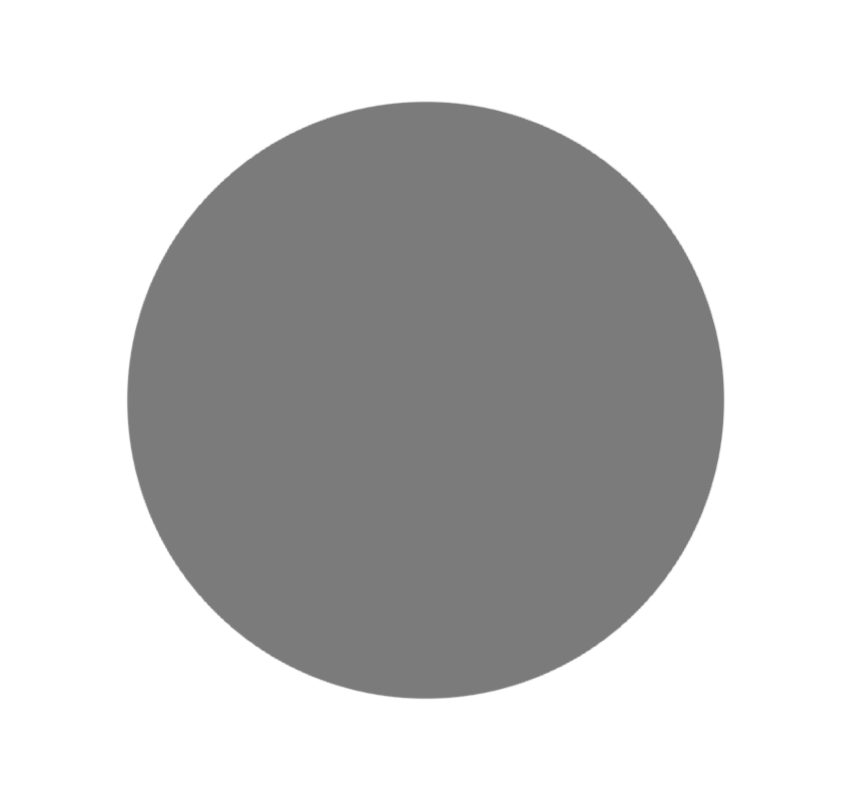
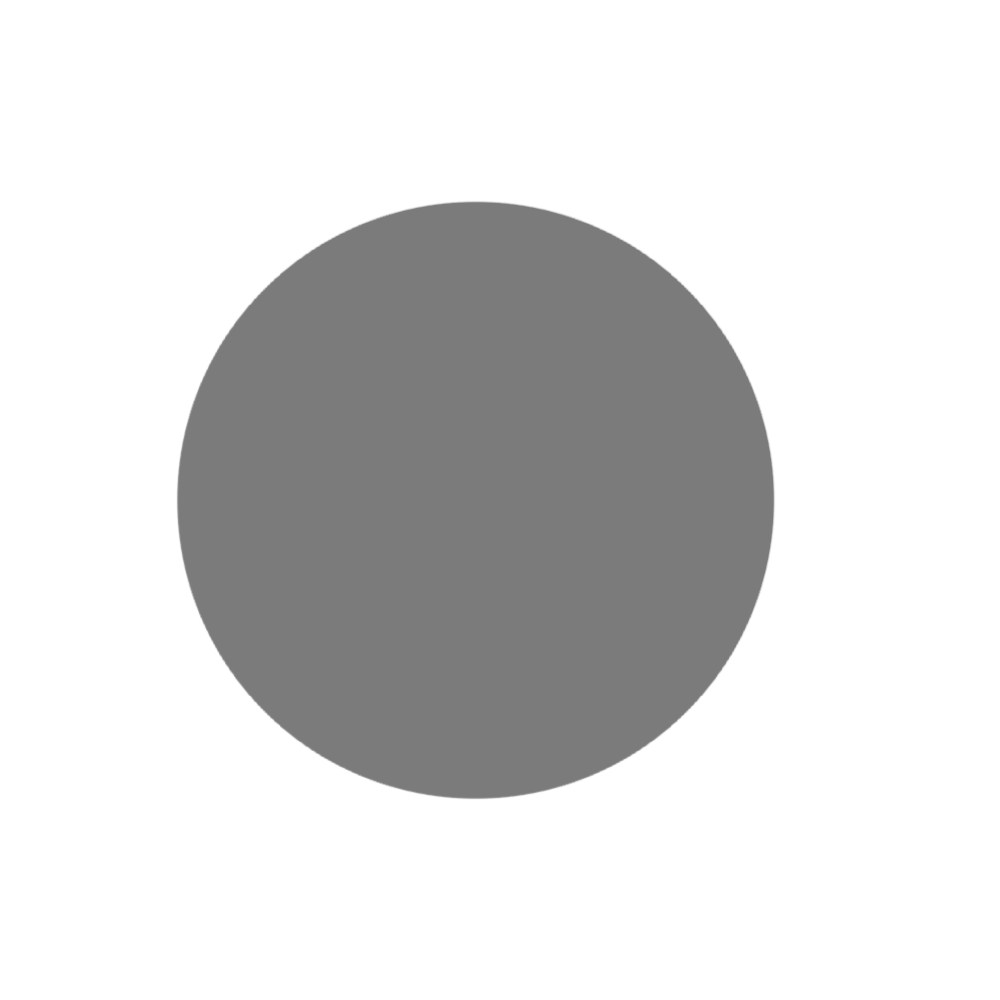
Changed final image

Changed region(s): [[0.1224, 0.125, 0.8565, 0.875]]

diff --git a/main.py b/main.py
@@ -17,9 +17,9 @@ croppedDir = "CroppedImages/"
 # what you want your final image to be called
 finalImageName = "FinalImage"
 # x,y dimensions of your images (all images will be cropped to this size)
-imageDim = [900,900]
+imageDim = [1000,1000]
 # x,y offset of your cropped images (the coordinates of the topleft corner of your image)
-offsetCrop = [50,100]
+offsetCrop = [0,0]
 # set to true if you want your cropped images to be saved in the croppedDir set above
 saveCroppedImages = True
 #========================================
